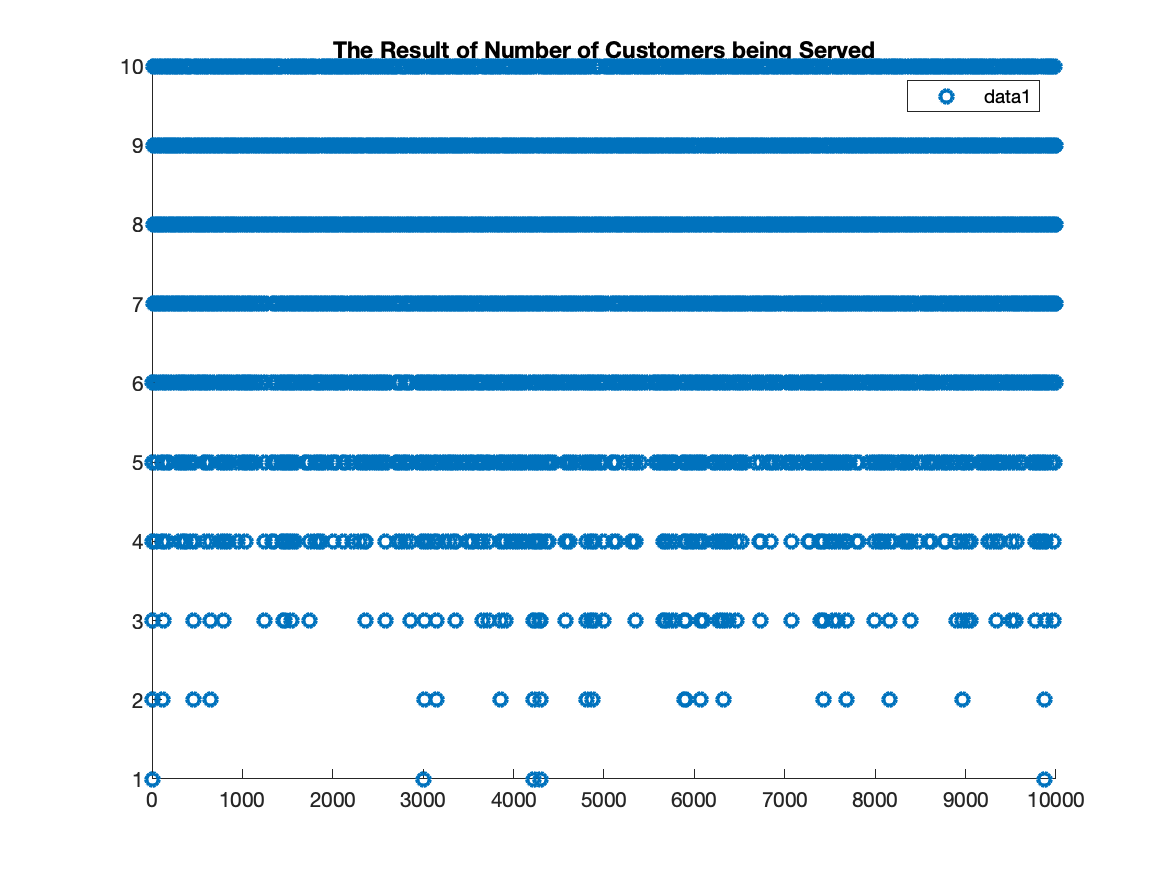
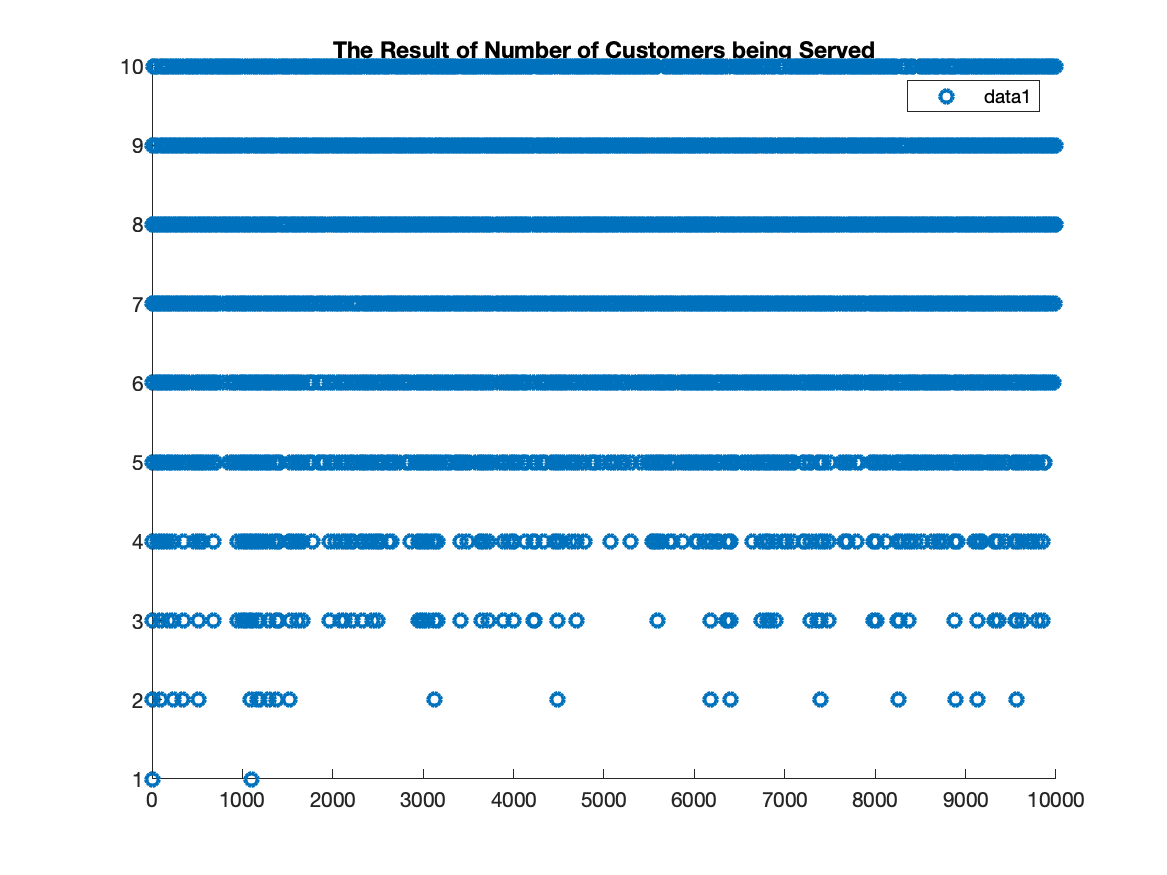
update

diff --git a/exercise4/simDiscreteEvent.m b/exercise4/simDiscreteEvent.m
@@ -5,18 +5,18 @@
 function [b, sState] = simDiscreteEvent(clockSimZero, nServer, nEvent, funcArrive, funcServe, vecParaArrive, ...
     vecParaServe)
     % 1,  Initiate State Variables
-    sState(1).intervalArrive = funcArrive(vecParaArrive);
+    sState(1).inteEvent = funcArrive(vecParaArrive);
     sState(1).timeServe = funcServe(vecParaServe);
-    sState(1).clockSim = clockSimZero + sState(1).intervalArrive;
+    sState(1).clockSim = clockSimZero + sState(1).inteEvent;
     [sState(1).nCustomerServe, sState(1).nCustomerBlock, sState(1).vecTimeDepart] = updateStateBlock( ...
         sState(1).clockSim, nServer, 0, 0, zeros(nServer, 1), sState(1).timeServe);
     sState(1).b = sState(1).nCustomerBlock / 1;
     % 2,  Begin Simulation
     for i = 2:nEvent
         % 2.1,  Next event happens: a new customer has arrived.
-        sState(i).intervalArrive = funcArrive(vecParaArrive);
+        sState(i).inteEvent = funcArrive(vecParaArrive);
         sState(i).timeServe = funcServe(vecParaServe);
-        sState(i).clockSim = sState(i-1).clockSim + sState(i).intervalArrive;
+        sState(i).clockSim = sState(i-1).clockSim + sState(i).inteEvent;
         % 2.2,  Evolution of State Variables
         [sState(i).nCustomerServe, sState(i).nCustomerBlock, sState(i).vecTimeDepart] = updateStateBlock( ...
             sState(i).clockSim, nServer, sState(i-1).nCustomerServe, sState(i-1).nCustomerBlock, ...

diff --git a/exercise4/setup.m b/exercise4/setup.m
@@ -8,7 +8,7 @@ addpath("~/Documents/GitHub/StochasticSim/exercise4")  % #######################
 nServer = 10;
 nCustomer = 11000;
 nSim = 100;
-nStable = 1000;  % nCustomer * 0.01;
+nStable = 1000;
 clockSimZero = 0;
 mu = 1;
 lambda = 8;
@@ -27,11 +27,18 @@ for i = 1:nSim
     [vecResultProbRaw(i), sState] = simDiscreteEvent(clockSimZero, nServer, nEvent, funcArrive, funcServe, ...
         vecParaArrive, vecParaServe);
     vecResultProb(i) = (sState(nEvent).nCustomerBlock - sState(nStable).nCustomerBlock) / (nEvent - nStable);
-    vecY(i) = mean([sState.intervalArrive]);
+    vecY(i) = mean([sState.inteEvent]);
 end
 fprintf("Result from Simulation ---------------------------------------------------------");
 toc
 printResult(vecResultProb);
+% Plot the Histogram of Simulated Time and Standard Distribution
+vecXStd_1 = [0.01:0.01:5];
+vecYStd_1 = exppdf(vecXStd_1, mu);
+[vecProbClass] = plotHist([sState.inteEvent], vecXStd_1, vecYStd_1, 30, '5.png');
+vecXStd_2 = [0.01:1:40];
+vecYStd_2 = exppdf(vecXStd_2, lambda);
+[vecProbClass] = plotHist([sState.timeServe], vecXStd_2, vecYStd_2, 30, '6.png');
 fprintf("Result from Simulation and Control Variate -------------------------------------");
 expectY = 1;
 vecX = vecResultProb;

diff --git a/exercise4/plotHist.m b/exercise4/plotHist.m
@@ -1,0 +1,16 @@
+function [vecProbClass] = plotHist(vecResult, vecXstd, vecYstd, numClass, strFigName)
+    % Plot the histogram of RNG result and return the vector of values
+    figHist = figure("Visible", "off");
+    hold on
+    figHist = histogram(vecResult, 'NumBins', numClass, 'Normalization', 'probability', "Visible", "off");
+    vecProbClass = figHist.Values;
+    vecProbClassNorm = vecProbClass / figHist.BinWidth;  % Normalize the prob with BinWidth
+    vecX = figHist.BinEdges(1:figHist.NumBins);
+    vecX = vecX + figHist.BinWidth / 1;
+    figHist = plot(vecX, vecProbClassNorm, 'b', 'LineWidth', 2);
+    figHist = plot(vecXstd, vecYstd, 'r', 'LineWidth', 2);
+    title("Histogram of Result and Standard Distribution");
+    legend('Histogram of Result', 'Standard Distribution');
+    hold off
+    saveas(figHist, [pwd '/images/' strFigName]);
+end
